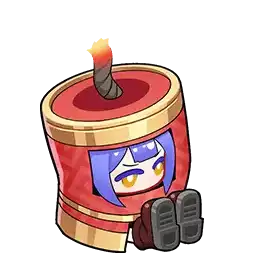
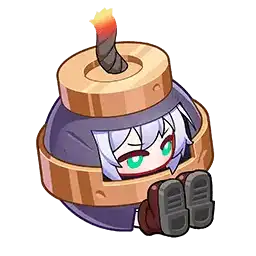
feat: 焰竹火莲卡池支持

diff --git a/src/data/cardPools.js b/src/data/cardPools.js
@@ -47,6 +47,47 @@ const SP_BASE_RATE = 0.0125 // SP 基础概率
 
 // 定义卡池配置
 export const cardPools = {
+  // 焰竹火莲
+  yanzhuhuolian: {
+    type: '限定',
+    name: '焰竹火莲',
+    imageUrl: '/images/cardpools-icon/10201.webp',
+    rates: {
+      [RARITY.SP]: SP_BASE_RATE,
+      [RARITY.SSR]: 0.06,
+      [RARITY.SR]: 0.2,
+    },
+    rules: {
+      [RARITY.SP]: {
+        pity: 60,
+        boostAfter: 40,
+        boost: 0.02,
+        UpTrigger: true,
+        SelectUpCards: true,
+        UpCards: ['光焰火莲', '新年爆竹'],
+      },
+    },
+    cardNames: {
+      [RARITY.SP]: ['光焰火莲', '新年爆竹'],
+      [RARITY.SSR]: ['火焰魔女', '油瓶射手', '棉花糖战士', '椒椒射手'],
+      [RARITY.SR]: [
+        '珍珠射手',
+        '饼干骑士',
+        '劈咔灯泡',
+        '弹幕发射姬',
+        '电音射手',
+        '家用喷火枪',
+        '液氮喷射器',
+        '雪球投掷姬',
+        '梦游月兔',
+        '拳头礼盒',
+        '消防栓',
+        '浅睡千竹',
+        '贝斯战士',
+      ],
+      [RARITY.R]: ['纸杯千竹', '铁头娃娃', '转转咖啡杯', '迷你风扇', '闪耀灯球', '火柴女孩'],
+    },
+  },
   // 新春自选
   xinchunzixuan: {
     type: '自选',

diff --git a/src/data/cards.js b/src/data/cards.js
@@ -283,6 +283,20 @@ export const allCards = [
     imageUrl: '/images/cards/1714.webp',
     realname: '千叶',
   },
+  {
+    id: '1506',
+    name: '新年爆竹',
+    rarity: RARITY.SP,
+    imageUrl: '/images/cards/1506.webp',
+    realname: '希艾姆',
+  },
+  {
+    id: '1612',
+    name: '光焰火莲',
+    rarity: RARITY.SP,
+    imageUrl: '/images/cards/1612.webp',
+    realname: '莲',
+  },
   // ---------------限定角色 结束---------------
   {
     id: 'CustomSPshuan',
